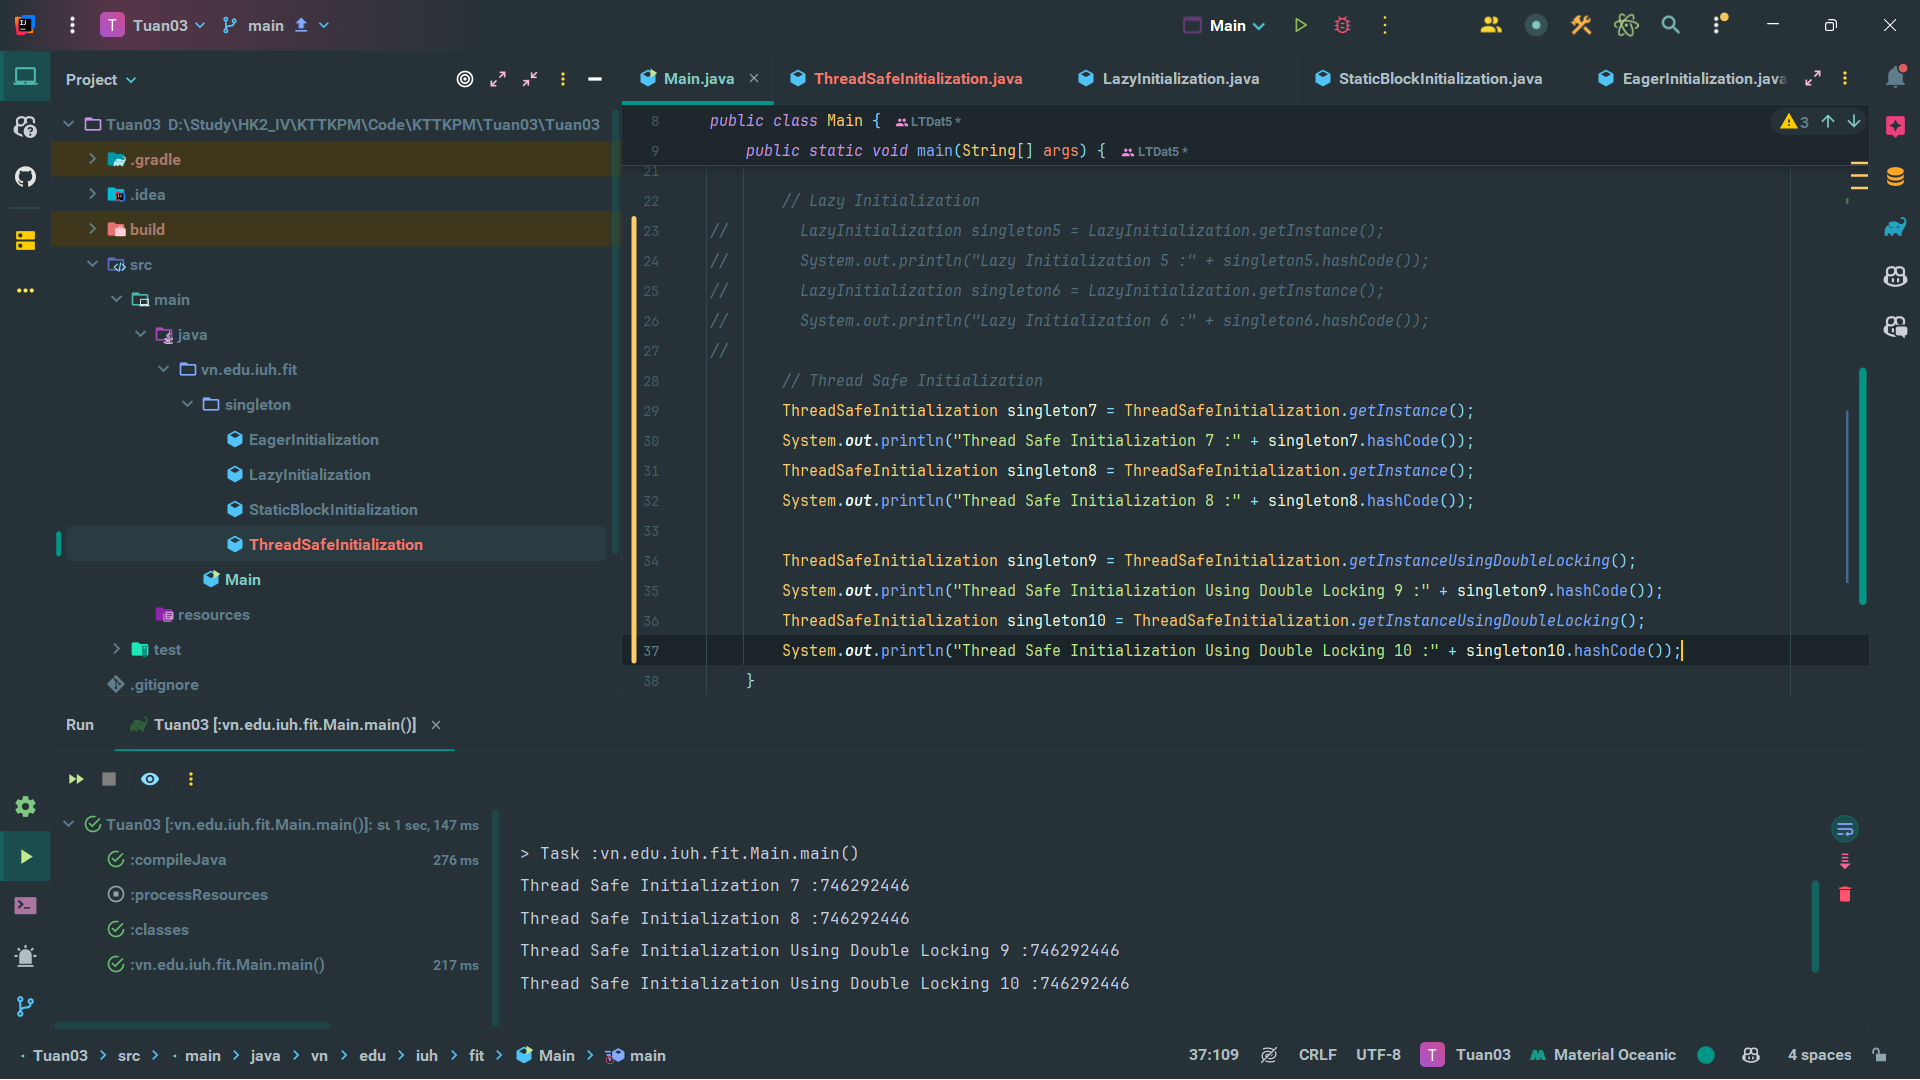
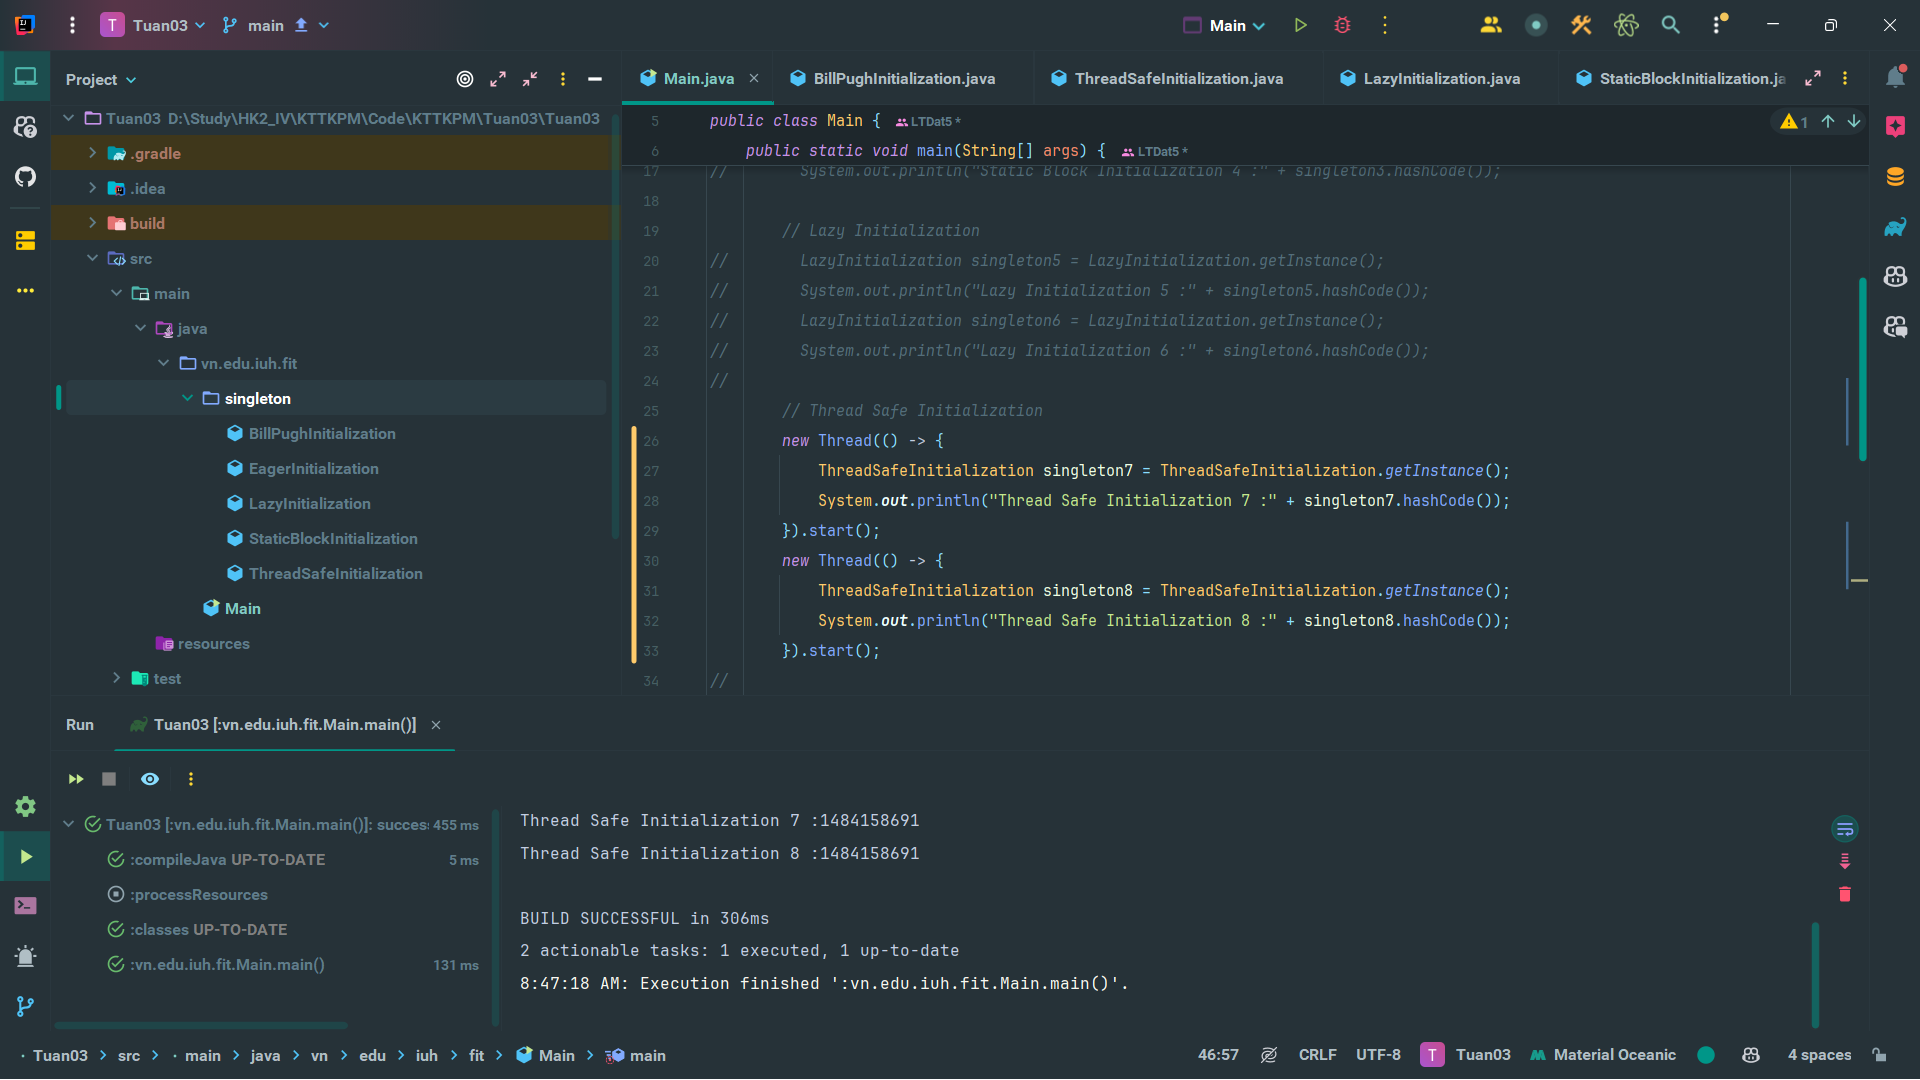
update Thread Safe Initialization

diff --git a/Tuan03/Tuan03/src/main/java/vn/edu/iuh/fit/Main.java b/Tuan03/Tuan03/src/main/java/vn/edu/iuh/fit/Main.java
@@ -23,10 +23,14 @@ public class Main {
 //        System.out.println("Lazy Initialization 6 :" + singleton6.hashCode());
 //
         // Thread Safe Initialization
-//        ThreadSafeInitialization singleton7 = ThreadSafeInitialization.getInstance();
-//        System.out.println("Thread Safe Initialization 7 :" + singleton7.hashCode());
-//        ThreadSafeInitialization singleton8 = ThreadSafeInitialization.getInstance();
-//        System.out.println("Thread Safe Initialization 8 :" + singleton8.hashCode());
+        new Thread(() -> {
+            ThreadSafeInitialization singleton7 = ThreadSafeInitialization.getInstance();
+            System.out.println("Thread Safe Initialization 7 :" + singleton7.hashCode());
+        }).start();
+        new Thread(() -> {
+            ThreadSafeInitialization singleton8 = ThreadSafeInitialization.getInstance();
+            System.out.println("Thread Safe Initialization 8 :" + singleton8.hashCode());
+        }).start();
 //
 //        ThreadSafeInitialization singleton9 = ThreadSafeInitialization.getInstanceUsingDoubleLocking();
 //        System.out.println("Thread Safe Initialization Using Double Locking 9 :" + singleton9.hashCode());
@@ -34,10 +38,14 @@ public class Main {
 //        System.out.println("Thread Safe Initialization Using Double Locking 10 :" + singleton10.hashCode());
 
         // Bill Pugh Initialization
-        BillPughInitialization singleton11 = BillPughInitialization.getInstance();
-        System.out.println("Bill Pugh Initialization 11 :" + singleton11.hashCode());
-        BillPughInitialization singleton12 = BillPughInitialization.getInstance();
-        System.out.println("Bill Pugh Initialization 12 :" + singleton12.hashCode());
+//        BillPughInitialization singleton11 = BillPughInitialization.getInstance();
+//        System.out.println("Bill Pugh Initialization 11 :" + singleton11.hashCode());
+//        BillPughInitialization singleton12 = BillPughInitialization.getInstance();
+//        System.out.println("Bill Pugh Initialization 12 :" + singleton12.hashCode());
+
+        // Using Reflection to destroy Singleton Pattern
+//        EagerInitialization singleton = EagerInitialization.getInstance();
+//        EagerInitialization singletonTwo = null;
 
     }
 
